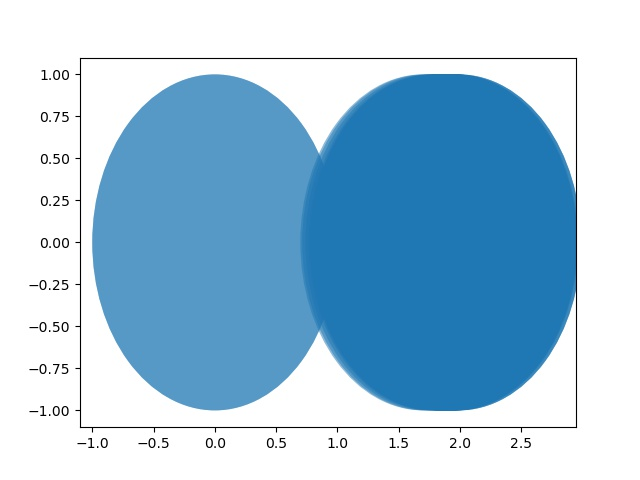
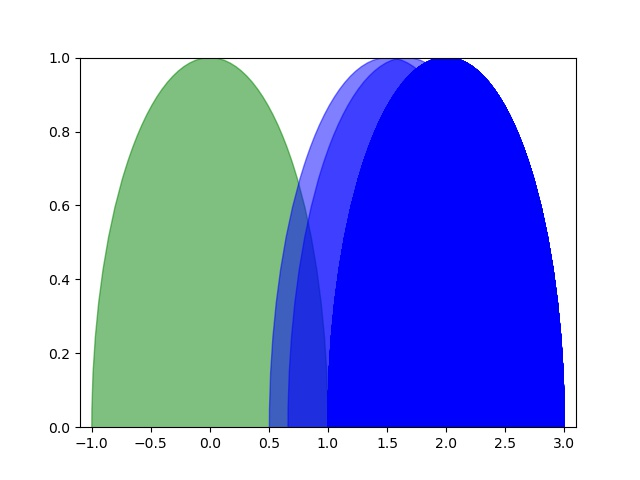
Added Various Use Cases

diff --git a/final_project.py b/final_project.py
@@ -16,7 +16,7 @@ from importlib import reload
 
 from sklearn.ensemble import RandomForestClassifier
 from sklearn.metrics.pairwise import cosine_similarity
-from sklearn.feature_extraction.text import CountVectorizer
+from sklearn.feature_extraction.text import CountVectorizer, HashingVectorizer
 
 from pylab import *
 from nltk.corpus import stopwords
@@ -96,9 +96,6 @@ def sentiment_display():
 def reason_display(list_of_sentences):
     print("In Reason")
 
-def adjectives_display(list_of_sentences):
-    print("In Adjectives")
-
 def intention_vs_action_display(list_of_sentences):
     print("In Intention")
 
@@ -106,7 +103,7 @@ def important_factors_display(list_of_sentences):
 
     d = getcwd()
 
-    tfidf_vectorizer = TfidfVectorizer()
+    tfidf_vectorizer = TfidfVectorizer(max_df=0.45, min_df=2, stop_words='english', use_idf=True)
     tfidf = tfidf_vectorizer.fit_transform(list_of_sentences)
 
     lsa = TruncatedSVD(25, algorithm='randomized')
@@ -129,7 +126,7 @@ def important_factors_display(list_of_sentences):
 
 def random_forest_similarity_display(sentence):
 
-    suicide_dataset = read_dataset()[3000:4000]
+    suicide_dataset = read_dataset()
 
     tfidf_vect, tfidf = tfidf_vectorizer(suicide_dataset['tweet'])
     X_features = pd.concat([pd.DataFrame(tfidf.toarray())], axis=1)
@@ -146,24 +143,24 @@ def random_forest_similarity_display(sentence):
 
 def cosine_similarity_display(document_corpus, sentence):
 
-    document_corpus.append(sentence)
+    document_corpus.insert(0, sentence)
 
-    tfidf_vectorizer = TfidfVectorizer(stop_words='english')
+    tfidf_vectorizer = TfidfVectorizer(max_df=0.45, min_df=2, stop_words='english', use_idf=True)
     sparse_matrix = tfidf_vectorizer.fit_transform(document_corpus)
 
     cosine = cosine_similarity(sparse_matrix[0:1], sparse_matrix)
 
-    circle1 = plt.Circle((0, 0), 1, alpha=.5)
-    plt.ylim([-1.1, 1.1])
     fig = plt.gcf()
-    fig.gca().add_artist(circle1)
 
     for i in range(len(cosine)):
         for j in range(len(cosine[i])):
             d = 2 * 1 * (1 - cosine[0][j])
-            circle2 = plt.Circle((d, 0), 1, alpha=.5)
+            if(j == 0):
+                circle = plt.Circle((d, 0), 1, alpha=.5, color='g')
+            else:
+                circle = plt.Circle((d, 0), 1, alpha=.5, color='b')
             plt.xlim([-1.1, 1.1 + d])
-            fig.gca().add_artist(circle2)
+            fig.gca().add_artist(circle)
 
     plt.savefig('resources/cosine_overlap.jpg')
     plt.show()
@@ -193,8 +190,10 @@ def pos_tagging_and_display(sentence):
     token_list = tokenizer(sentence)
     for token in token_list:
         print(token, token.tag_, token.pos_, spacy.explain(token.tag_))
+        if (spacy.explain(token.tag_) == 'adjective'):
+            adj.append(token)
 
-    displacy.serve(token_list, style="dep")
+    #displacy.serve(token_list, style="dep")
 
 def ner_labeling_and_display(sentence):
 
@@ -203,7 +202,7 @@ def ner_labeling_and_display(sentence):
     for token in token_list.ents:
         print(token.text, '->', token.label_)
 
-    displacy.serve(token_list, style = "ent")
+    #displacy.serve(token_list, style = "ent")
 
 def most_common_words_display(sentence):
 
@@ -219,6 +218,26 @@ def most_common_words_display(sentence):
     sns_bar.set_xticklabels(words, rotation=90)
     plt.title('Most Common Words')
     plt.savefig(path.join(d, 'resources/word_count.jpg'), dpi=200)
+    plt.show()
+
+def most_common_adj_display(sentence):
+
+    pos_tagging_and_display(sentence)
+
+    adjectives = ' '.join(map(str, adj))
+
+    d = getcwd()
+    freq = Counter(adjectives.split(" "))
+    sns.set_style("darkgrid")
+    words = [word[0] for word in freq.most_common(10)]
+    count = [word[1] for word in freq.most_common(10)]
+
+    plt.figure(figsize=(10, 10))
+
+    sns_bar = sns.barplot(x=words, y=count)
+    sns_bar.set_xticklabels(words, rotation=90)
+    plt.title('Most Used Adjectives')
+    plt.savefig(path.join(d, 'resources/adj_count.jpg'), dpi=200)
     plt.show()
 
 def word_cloud_display(sentence):
@@ -251,7 +270,9 @@ def data_preprocessing():
             clean_token_sentences.append(tokens)
             clean_lemma_sentences.append(lemmas)
             clean_tokens.append(tokenizer(tokens))
+            clean_lemmas.append(tokenizer(lemmas))
             dirty_sentences.append(row['tweet'])
+
 
 def read_dataset():
     data = pd.read_csv('data/data_set.csv')
@@ -287,9 +308,15 @@ def clean_sentences(sentence):
 
 def tfidf_vectorizer(data):
     print ("TF-IDF Vectorizer")
-    tfidf_vect = TfidfVectorizer()
+    tfidf_vect = TfidfVectorizer(max_df=0.45, min_df=2, stop_words='english', use_idf=True)
     X_train_tfidf = tfidf_vect.fit_transform(data)
     return tfidf_vect, X_train_tfidf
+
+def hashing_vectorizer(data):
+    print ("Hashing Vectorizer")
+    hash_vect = HashingVectorizer()
+    X_train_hash = hash_vect.fit_transform(data)
+    return hash_vect, X_train_hash
 
 def count_vectorizer(data):
     print ("Count Vectorizer")
@@ -346,16 +373,21 @@ def final_project(name):
 def sergey_nlp():
     print("Sergey's Work")
 
-    data_preprocessing()
-    clean_tokens_strings = ' '.join(map(str, clean_tokens))
+    #data_preprocessing()
+    #clean_tokens_strings = ' '.join(map(str, clean_tokens))
+    #clean_lemma_strings = ' '.join(map(str, clean_lemmas))
 
-    most_common_words_display(clean_tokens_strings)
-    cosine_similarity_display(clean_lemma_sentences,' '.join(map(str, list_of_clean_lemmas("I want to kill myself"))))
-    word_cloud_display(clean_tokens_strings)
-    important_factors_display(clean_token_sentences)
-    pos_tagging_and_display(clean_tokens_strings)
-    ner_labeling_and_display(clean_tokens_strings)
-    random_forest_similarity_display("I am thinking about walking in the park")
+    #most_common_words_display(clean_lemma_strings)
+    #word_cloud_display(clean_lemma_strings)
+    #cosine_similarity_display(dirty_sentences,"I want to walk in the park")
+    #cosine_similarity_display(dirty_sentences, "I want to kill myself")
+    #word_cloud_display(clean_tokens_strings)
+    #important_factors_display(clean_lemma_sentences)
+    #pos_tagging_and_display(clean_tokens_strings)
+    #most_common_adj_display(clean_tokens_strings)
+    #ner_labeling_and_display(clean_tokens_strings)
+    #random_forest_similarity_display("I am thinking about walking in the park")
+    random_forest_similarity_display("I want to kill myself")
 
 def morgan_nlp():
     print ("Morgan's Work")
@@ -370,7 +402,6 @@ def freeman_nlp():
     print ("Freeman's Work")
 
     reason_display(clean_lemma_sentences)
-    adjectives_display(clean_lemma_sentences)
     intention_vs_action_display(clean_lemma_sentences)
 
 def rekha_nlp():
@@ -386,7 +417,8 @@ if __name__ == '__main__':
     clean_token_sentences = []
     clean_lemma_sentences = []
     clean_tokens = []
-    clena_lemmas = []
+    clean_lemmas = []
+    adj = []
 
     sergey_nlp()
     #morgan_nlp()
